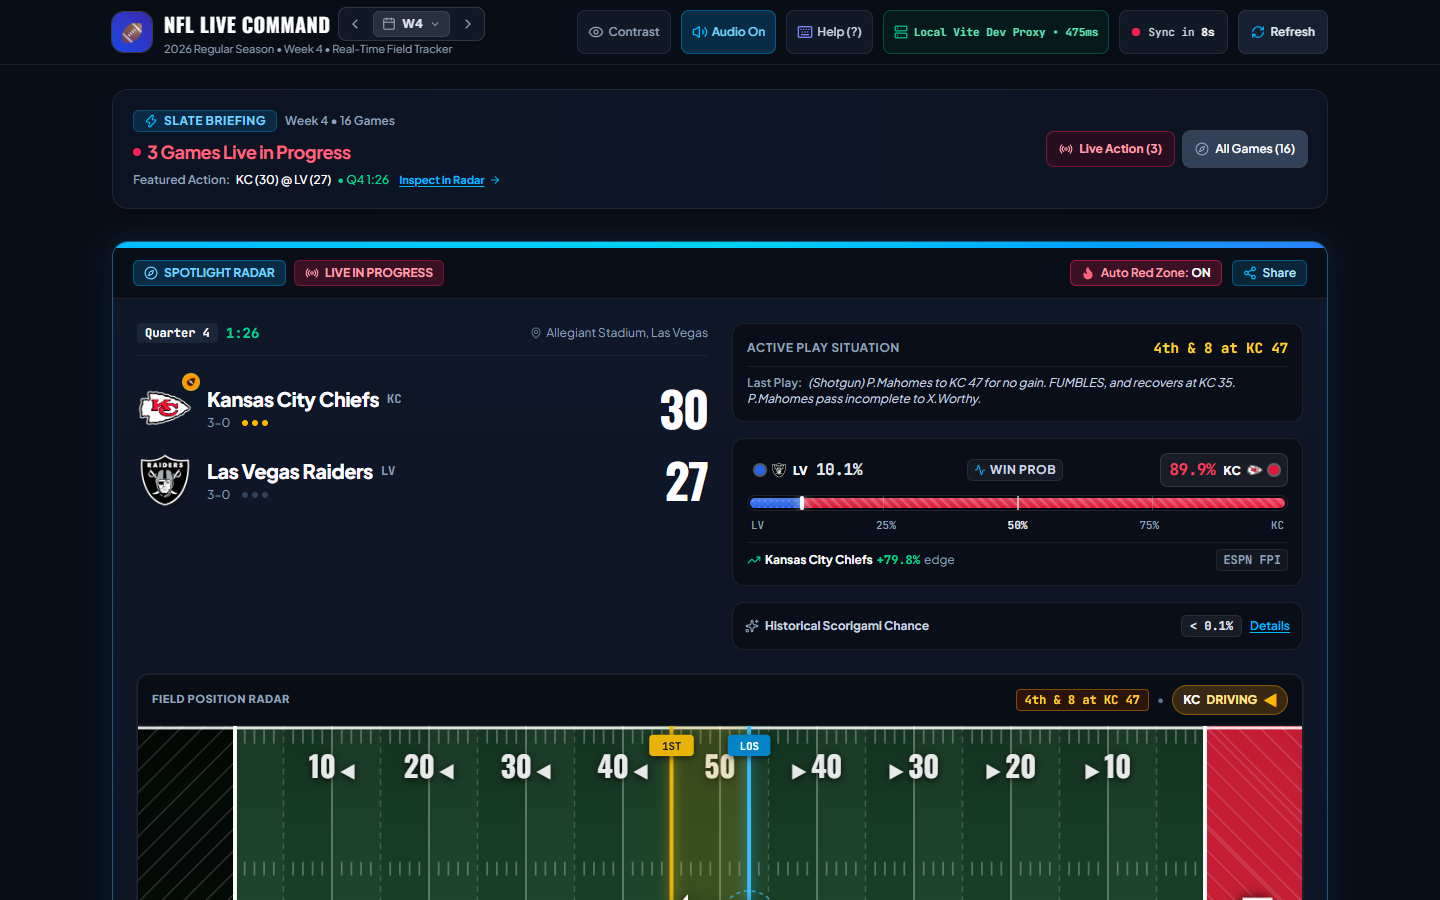
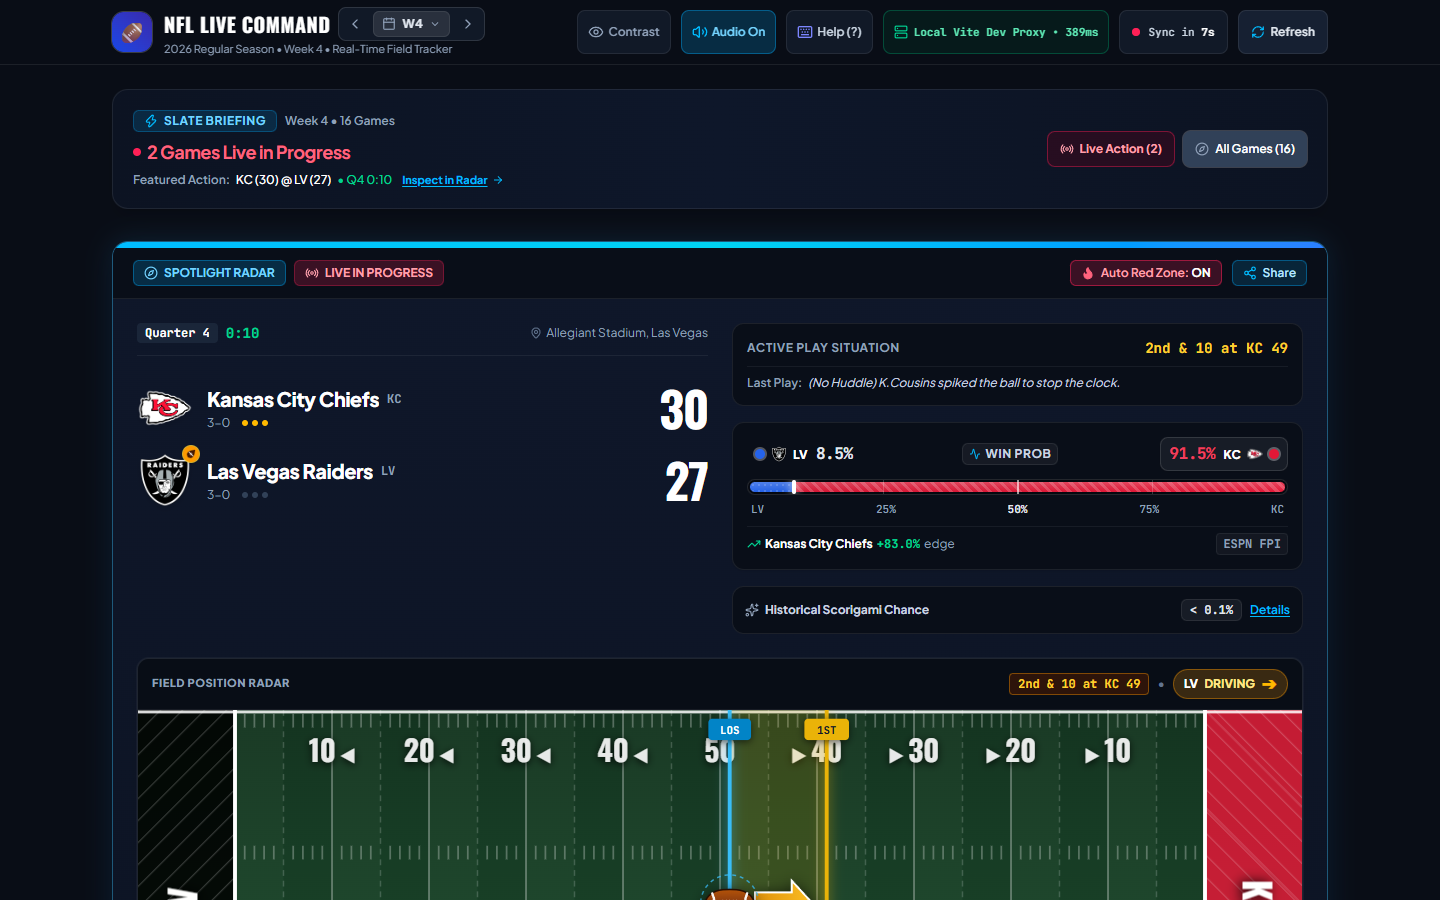
fix: update UK TV broadcast rights to Channel 5 and Sky Sports, removing obsolete ITV references

diff --git a/src/utils/broadcastInfo.ts b/src/utils/broadcastInfo.ts
@@ -112,7 +112,16 @@ export interface BroadcastContext {
 export function getVerifiedAnnouncers(
   event?: NFLEvent | null,
   context?: BroadcastContext
-): { announcers: BroadcastAnnouncers; network?: string } {
+): {
+  announcers: BroadcastAnnouncers
+  network?: string
+  ukTv?: string
+  ukTvShort?: string
+  ukTvChannelNumber?: string
+  ukRadio?: string
+  ukRadioShort?: string
+  ukRadioFrequency?: string
+} {
   const competitors = event?.competitions?.[0]?.competitors || []
   const away = competitors.find((c) => c.homeAway === 'away')?.team?.abbreviation || ''
   const home = competitors.find((c) => c.homeAway === 'home')?.team?.abbreviation || ''
@@ -122,6 +131,12 @@ export function getVerifiedAnnouncers(
     const booth = [crew.playByPlay, ...crew.analysts]
     return {
       network: crew.network,
+      ukTv: crew.ukTv,
+      ukTvShort: crew.ukTvShort,
+      ukTvChannelNumber: crew.ukTvChannelNumber,
+      ukRadio: crew.ukRadio,
+      ukRadioShort: crew.ukRadioShort,
+      ukRadioFrequency: crew.ukRadioFrequency,
       announcers: {
         playByPlay: crew.playByPlay,
         analyst: joinNames(crew.analysts),
@@ -300,7 +315,16 @@ export function getGameBroadcastDetails(event?: NFLEvent | null): GameBroadcastD
   // ---------------------------------------------------------------------------
   // 1. US NETWORK + ANNOUNCERS CALLING THE GAME
   // ---------------------------------------------------------------------------
-  const { announcers, network: verifiedNetwork } = getVerifiedAnnouncers(event, {
+  const {
+    announcers,
+    network: verifiedNetwork,
+    ukTv: verifiedUkTv,
+    ukTvShort: verifiedUkTvShort,
+    ukTvChannelNumber: verifiedUkTvChannelNumber,
+    ukRadio: verifiedUkRadio,
+    ukRadioShort: verifiedUkRadioShort,
+    ukRadioFrequency: verifiedUkRadioFrequency,
+  } = getVerifiedAnnouncers(event, {
     ukWeekday,
     ukHour,
     upperNet,
@@ -350,85 +374,111 @@ export function getGameBroadcastDetails(event?: NFLEvent | null): GameBroadcastD
   // ---------------------------------------------------------------------------
   // 2. UK TELEVISION BROADCAST
   // ---------------------------------------------------------------------------
-  let ukTv = 'Sky Sports NFL'
-  let ukTvShort = 'Sky Sports NFL'
-  let ukTvChannelNumber = 'Sky 407 • Virgin 507'
+  let ukTv = verifiedUkTv || 'Sky Sports NFL'
+  let ukTvShort = verifiedUkTvShort || 'Sky Sports NFL'
+  let ukTvChannelNumber = verifiedUkTvChannelNumber || 'Sky 407 • Virgin 507'
   let isNationalUkTv = true
   const isRedZoneWindow = ukWeekday === 'Sun' && ukHour >= 17 && ukHour <= 23
 
-  if (isSuperBowl) {
-    ukTv = 'Sky Sports NFL & ITV1 (Free-to-Air)'
-    ukTvShort = 'Sky Sports & ITV1'
-    ukTvChannelNumber = 'Sky 407 / Freeview 3 / Virgin 103'
-  } else if (isLondonVenue) {
-    ukTv = 'ITV1 & ITVX (Free-to-Air) • Sky Sports NFL'
-    ukTvShort = 'ITV1 & Sky Sports'
-    ukTvChannelNumber = 'Freeview 3 • Sky 103/407 • Virgin 103'
-  } else if (usTv.includes('ESPN') || usTv.includes('ABC')) {
-    ukTv = 'Sky Sports NFL & Channel 5 (NFL EndZone)'
-    ukTvShort = 'Sky Sports & Channel 5'
-    ukTvChannelNumber = 'Sky 407 • Freeview 5 • Virgin 507'
-  } else if (usTv.includes('NBC')) {
-    ukTv = 'Sky Sports NFL & Main Event'
-    ukTvShort = 'Sky Sports NFL'
-    ukTvChannelNumber = 'Sky 407 / Sky 401 • Virgin 507'
-  } else if (usTv.includes('Prime Video')) {
-    ukTv = 'Sky Sports NFL • Prime Video UK'
-    ukTvShort = 'Sky Sports & Prime'
-    ukTvChannelNumber = 'Sky 407 • Prime Video App'
-  } else if (usTv.includes('Netflix')) {
-    ukTv = 'Netflix UK • NFL Game Pass on DAZN'
-    ukTvShort = 'Netflix UK'
-    ukTvChannelNumber = 'Netflix App'
-  } else if (isRedZoneWindow && !isTier1Matchup) {
-    // Sunday afternoon game not on Sky Sports main game
-    ukTv = 'Sky Sports Mix (NFL RedZone) • DAZN'
-    ukTvShort = 'Sky Mix / RedZone'
-    ukTvChannelNumber = 'Sky 416 • Virgin 510 • NFL Game Pass'
-    isNationalUkTv = false
-  } else {
-    ukTv = 'Sky Sports NFL (Live Match)'
-    ukTvShort = 'Sky Sports NFL'
-    ukTvChannelNumber = 'Sky 407 • Virgin 507'
+  if (!verifiedUkTv) {
+    if (isSuperBowl) {
+      ukTv = 'Sky Sports NFL & Channel 5 (Free-to-Air)'
+      ukTvShort = 'Sky Sports & Channel 5'
+      ukTvChannelNumber = 'Freeview 5 • Sky 105/407 • Virgin 105/507'
+    } else if (isLondonVenue) {
+      ukTv = 'Sky Sports NFL & Channel 5 (Free-to-Air)'
+      ukTvShort = 'Sky Sports & Channel 5'
+      ukTvChannelNumber = 'Freeview 5 • Sky 105/407 • Virgin 105/507'
+    } else if (usTv.includes('ESPN') || usTv.includes('ABC')) {
+      // Monday Night Football
+      ukTv = 'Sky Sports NFL & Channel 5 (NFL on 5 / EndZone)'
+      ukTvShort = 'Sky Sports & Channel 5'
+      ukTvChannelNumber = 'Sky 407 • Freeview 5 • Virgin 507'
+    } else if (usTv.includes('NBC')) {
+      // Sunday Night Football
+      ukTv = 'Sky Sports NFL & Main Event'
+      ukTvShort = 'Sky Sports NFL'
+      ukTvChannelNumber = 'Sky 407 / Sky 401 • Virgin 507'
+    } else if (usTv.includes('Prime Video')) {
+      // Thursday Night Football
+      ukTv = 'Sky Sports NFL • Prime Video UK'
+      ukTvShort = 'Sky Sports & Prime'
+      ukTvChannelNumber = 'Sky 407 • Prime Video App'
+    } else if (usTv.includes('Netflix')) {
+      ukTv = 'Netflix UK • NFL Game Pass on DAZN'
+      ukTvShort = 'Netflix UK'
+      ukTvChannelNumber = 'Netflix App'
+    } else if (isRedZoneWindow && !isTier1Matchup) {
+      // Sunday afternoon game not on Sky Sports main game
+      ukTv = 'Sky Sports Mix (NFL RedZone) • DAZN'
+      ukTvShort = 'Sky Mix / RedZone'
+      ukTvChannelNumber = 'Sky 416 • Virgin 510 • NFL Game Pass'
+      isNationalUkTv = false
+    } else if (ukHour >= 21) {
+      // Sunday late afternoon game (9:00 / 9:25 PM UK) — Channel 5 Sunday headline fixture
+      ukTv = 'Sky Sports NFL & Channel 5 (Free-to-Air)'
+      ukTvShort = 'Sky Sports & Channel 5'
+      ukTvChannelNumber = 'Freeview 5 • Sky 105/407 • Virgin 105/507'
+    } else if (ukHour >= 17) {
+      // Sunday early afternoon game (6:00 PM UK) — 5Action free-to-air fixture
+      ukTv = 'Sky Sports NFL & 5Action (Free-to-Air)'
+      ukTvShort = 'Sky Sports & 5Action'
+      ukTvChannelNumber = 'Freeview 33 • Sky 150/407 • Virgin 130/507'
+    } else {
+      ukTv = 'Sky Sports NFL (Live Match)'
+      ukTvShort = 'Sky Sports NFL'
+      ukTvChannelNumber = 'Sky 407 • Virgin 507'
+    }
   }
 
   // ---------------------------------------------------------------------------
   // 3. UK RADIO BROADCAST
   // ---------------------------------------------------------------------------
-  let ukRadio = 'talkSPORT 2'
-  let ukRadioShort = 'talkSPORT 2'
-  let ukRadioFrequency = 'DAB Digital Radio • talkSPORT App • Online'
+  let ukRadio = verifiedUkRadio || 'talkSPORT 2'
+  let ukRadioShort = verifiedUkRadioShort || 'talkSPORT 2'
+  let ukRadioFrequency = verifiedUkRadioFrequency || 'DAB Digital Radio • talkSPORT App • Online'
 
-  if (isSuperBowl) {
-    ukRadio = 'BBC Radio 5 Live & talkSPORT'
-    ukRadioShort = 'BBC 5 Live & talkSPORT'
-    ukRadioFrequency = 'DAB Digital Radio • BBC Sounds • talkSPORT App'
-  } else if (isLondonVenue) {
-    ukRadio = 'BBC Radio 5 Live & BBC Sounds'
-    ukRadioShort = 'BBC Radio 5 Live'
-    ukRadioFrequency = 'DAB Digital Radio • 693 / 909 AM • BBC Sounds'
-  } else if (usTv.includes('ESPN') || usTv.includes('ABC') || usTv.includes('NBC')) {
-    ukRadio = 'talkSPORT 2 & Westwood One'
-    ukRadioShort = 'talkSPORT 2'
-    ukRadioFrequency = 'DAB Digital Radio • talkSPORT App'
-  } else if (isRedZoneWindow && !isTier1Matchup) {
-    ukRadio = 'talkSPORT 2 (NFL Live Around the Grounds)'
-    ukRadioShort = 'talkSPORT 2'
-    ukRadioFrequency = 'DAB Digital Radio • talkSPORT App • BBC Sounds'
-  } else {
-    ukRadio = 'talkSPORT 2 (Full Live Match Commentary)'
-    ukRadioShort = 'talkSPORT 2'
-    ukRadioFrequency = 'DAB Digital Radio • talkSPORT App'
+  if (!verifiedUkRadio) {
+    if (isSuperBowl) {
+      ukRadio = 'BBC Radio 5 Live & talkSPORT'
+      ukRadioShort = 'BBC 5 Live & talkSPORT'
+      ukRadioFrequency = 'DAB Digital Radio • BBC Sounds • talkSPORT App'
+    } else if (isLondonVenue) {
+      ukRadio = 'talkSPORT 2 (Full Live Match Commentary)'
+      ukRadioShort = 'talkSPORT 2'
+      ukRadioFrequency = 'DAB Digital Radio • talkSPORT App'
+    } else if (usTv.includes('NBC')) {
+      ukRadio = 'talkSPORT 2 (Exclusive UK Radio Coverage)'
+      ukRadioShort = 'talkSPORT 2'
+      ukRadioFrequency = 'DAB Digital Radio • talkSPORT App'
+    } else if (usTv.includes('ESPN') || usTv.includes('ABC')) {
+      ukRadio = 'talkSPORT 2 & Westwood One'
+      ukRadioShort = 'talkSPORT 2'
+      ukRadioFrequency = 'DAB Digital Radio • talkSPORT App'
+    } else if (isRedZoneWindow && !isTier1Matchup) {
+      ukRadio = 'talkSPORT 2 (NFL Live Around the Grounds)'
+      ukRadioShort = 'talkSPORT 2'
+      ukRadioFrequency = 'DAB Digital Radio • talkSPORT App • BBC Sounds'
+    } else {
+      ukRadio = 'talkSPORT 2 (Full Live Match Commentary)'
+      ukRadioShort = 'talkSPORT 2'
+      ukRadioFrequency = 'DAB Digital Radio • talkSPORT App'
+    }
   }
 
   // ---------------------------------------------------------------------------
   // 4. UK STUDIO PRESENTATION PUNDITS
   // ---------------------------------------------------------------------------
   let ukPundits = 'Sky Sports: Neil Reynolds, Phoebe Schecter & Jason Bell'
-  if (isLondonVenue || (isSuperBowl && ukTv.includes('ITV'))) {
-    ukPundits = 'ITV: Craig Doyle, Jason Bell & Osi Umenyiora • Sky: Neil Reynolds'
+  if (isLondonVenue || isSuperBowl || ukTv.includes('Channel 5') || ukTv.includes('5Action')) {
+    ukPundits = 'Sky: Neil Reynolds, Phoebe Schecter, Jason Bell • 5: Dermot O\'Leary, Osi Umenyiora'
   } else if (ukRadio.includes('talkSPORT')) {
     ukPundits = 'Sky: Neil Reynolds, Phoebe Schecter • Radio: Nat Coombs & Will Gavin'
+  }
+
+  let streaming = 'Sky Go • NOW TV • NFL Game Pass on DAZN'
+  if (ukTv.includes('Channel 5') || ukTv.includes('5Action')) {
+    streaming = 'Sky Go • NOW TV • My5 • NFL Game Pass on DAZN'
   }
 
   return {
@@ -443,6 +493,6 @@ export function getGameBroadcastDetails(event?: NFLEvent | null): GameBroadcastD
     ukPundits,
     isNationalUkTv,
     isRedZoneWindow,
-    streaming: 'Sky Go • NOW TV • NFL Game Pass on DAZN',
+    streaming,
   }
 }

diff --git a/src/data/announcerRegistry.ts b/src/data/announcerRegistry.ts
@@ -38,6 +38,14 @@ export interface VerifiedGameCrew {
   sources: AnnouncerSource[]
   /** Date (YYYY-MM-DD) the crew was last checked against the sources. */
   verifiedOn: string
+  /** Confirmed UK TV broadcast partner (e.g. Channel 5 free-to-air, Sky Sports NFL) */
+  ukTv?: string
+  ukTvShort?: string
+  ukTvChannelNumber?: string
+  /** Confirmed UK Radio broadcast partner (e.g. talkSPORT 2, BBC Radio 5 Live) */
+  ukRadio?: string
+  ukRadioShort?: string
+  ukRadioFrequency?: string
 }
 
 const YAHOO_WEEK4 = {
@@ -65,6 +73,12 @@ export const ANNOUNCER_REGISTRY: readonly VerifiedGameCrew[] = [
     playByPlay: 'Dave Pasch', analysts: ['Kurt Warner', 'Jason Kelce'], sideline: ['Molly McGrath'],
     sources: [YAHOO_WEEK4],
     verifiedOn: '2026-10-04',
+    ukTv: 'Sky Sports NFL & Channel 5 (Free-to-Air)',
+    ukTvShort: 'Sky Sports & Channel 5',
+    ukTvChannelNumber: 'Freeview 5 • Sky 105/407 • Virgin 105/507',
+    ukRadio: 'talkSPORT 2 (Full Live Match Commentary)',
+    ukRadioShort: 'talkSPORT 2',
+    ukRadioFrequency: 'DAB Digital Radio • talkSPORT App',
   },
   {
     season: 2026, week: 4, away: 'TEN', home: 'BAL', kickoffUtc: '2026-10-04T17:00:00Z',

diff --git a/README.md b/README.md
@@ -47,7 +47,7 @@ Data is streamed directly via the [ESPN NFL Scoreboard API](https://site.api.esp
   - `npm run fetch:announcers`: Automatically previews or ingests confirmed announcer pairings for any week (`--week <N>`). Auto-populates the 3 permanent primetime franchises and parses published weekly pairings from verified sources (`--url <article_url> --apply`).
   - `npm run audit:announcers`: Live integrity audit comparing registry against ESPN's active schedule, alerting if any game kicking off within 48 hours lacks verified crew data.
   - `npm test`: Enforces strict data invariants (valid full names, no concurrent double-bookings for any commentator, verified HTTPS sources, and strict week/season matching).
-- **Dual UK & US Coverage**: Derives UK television channels (Sky Sports NFL, ITV1, Channel 5), UK radio (talkSPORT 2, BBC Radio 5 Live), and studio pundits alongside US telecast crews.
+- **Dual UK & US Coverage**: Derives UK television channels (Sky Sports NFL, Channel 5, 5Action), UK radio (talkSPORT 2, BBC Radio 5 Live), and studio pundits alongside US telecast crews.
 
 ### 5. 🎯 Anti-Pattern Free Editorial Design
 
